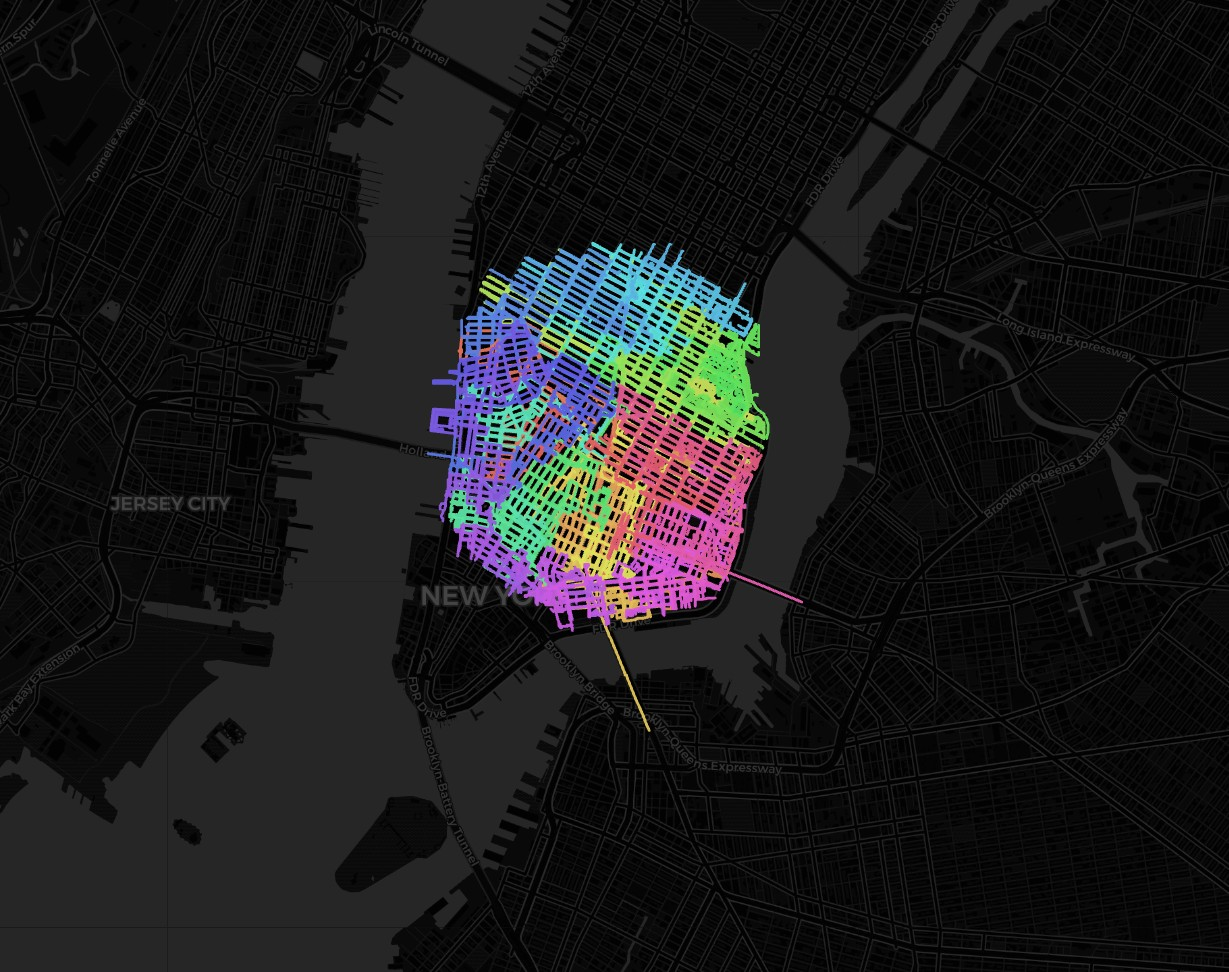
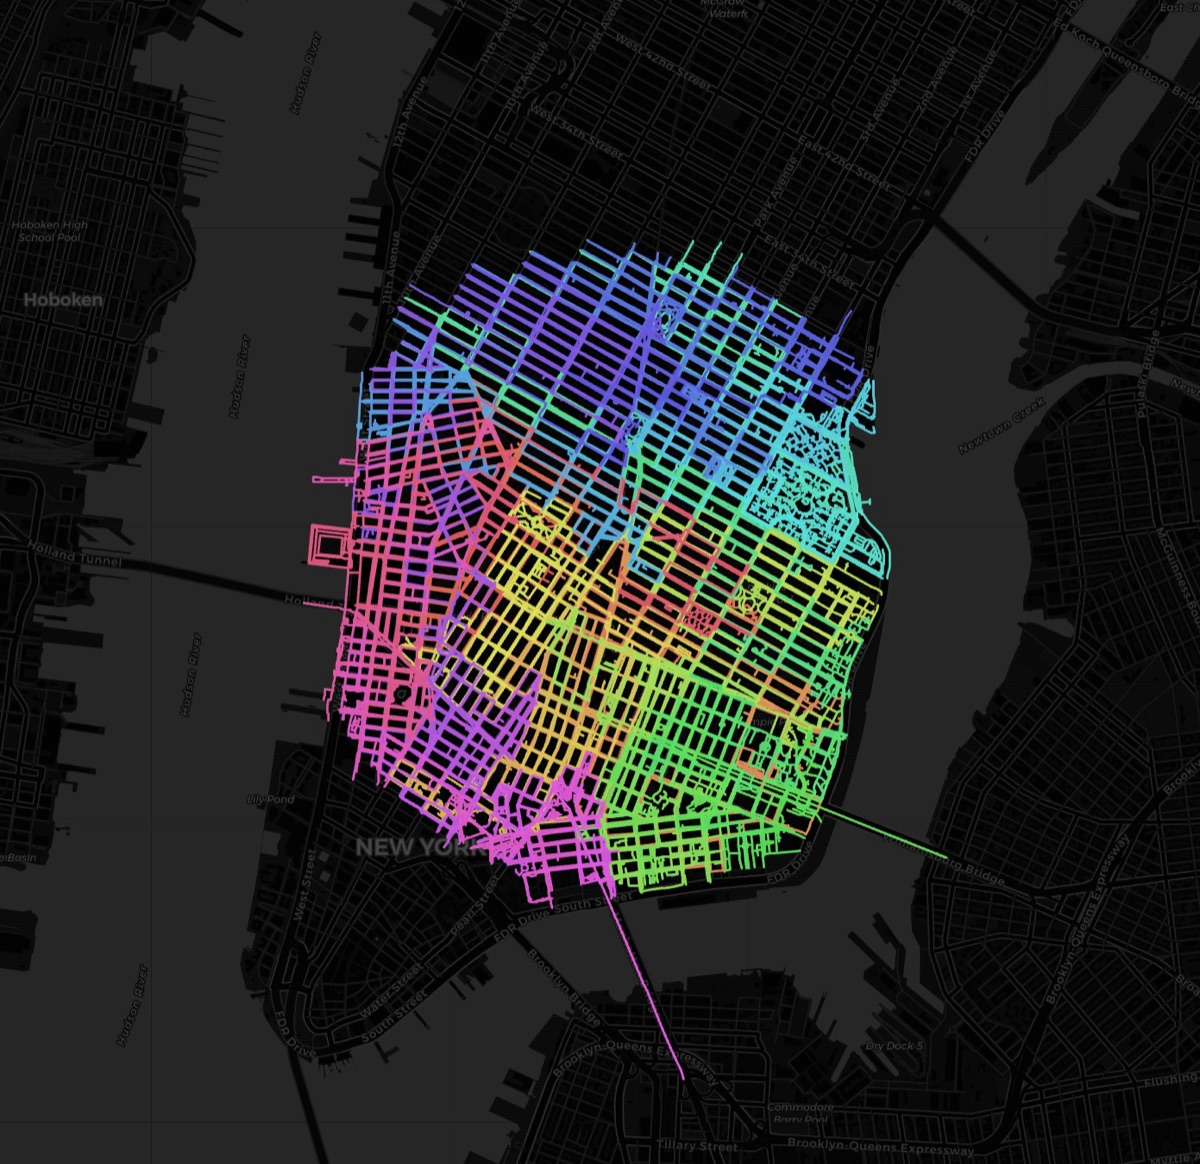
README: refresh screenshot and figures for the current solver
The hero image and GPX snippet still described the pre-optimization plan
(106 runs, 523.3 mi, +18.9%). Regenerated from the current solver: 102 runs,
502.2 mi, +14.1%, ~2s in the worker.

diff --git a/README.md b/README.md
@@ -5,14 +5,14 @@ chosen length, minimizing repeats — **entirely in the browser**. No backend.
 
 ![STR1DE coverage plan for Cooper Square, Manhattan](screenshot.jpg)
 
-*A real plan: Cooper Square, Manhattan — 1.2 mi radius, 5 mi max run. **106 runs,
-523.3 miles run to cover 440.2 street miles** (+18.9% repeat overhead). Each
-color is one run.*
+*A real plan: Cooper Square, Manhattan — 1.2 mi radius, 5 mi max run. **102 runs,
+502.2 miles run to cover 440.2 street miles** (+14.1% repeat overhead), solved in
+about 2 s in the browser. Each color is one run.*
 
 ## Export to your watch
 
 Every run downloads as GPX, and "Download all GPX" grabs the set. This is
-actual output from the plan above — run 1, 4.96 mi, 323 track points:
+actual output from the plan above — run 1, 4.97 mi, 350 track points:
 
 ```xml
 <?xml version="1.0" encoding="UTF-8"?>
@@ -21,7 +21,7 @@ actual output from the plan above — run 1, 4.96 mi, 323 track points:
       <trkpt lat="40.7279594" lon="-73.9913474"></trkpt>
       <trkpt lat="40.728498" lon="-73.991198"></trkpt>
       <trkpt lat="40.7286131" lon="-73.9912244"></trkpt>
-      <!-- … 320 more … -->
+      <!-- … 347 more … -->
   </trkseg></trk>
 </gpx>
 ```
